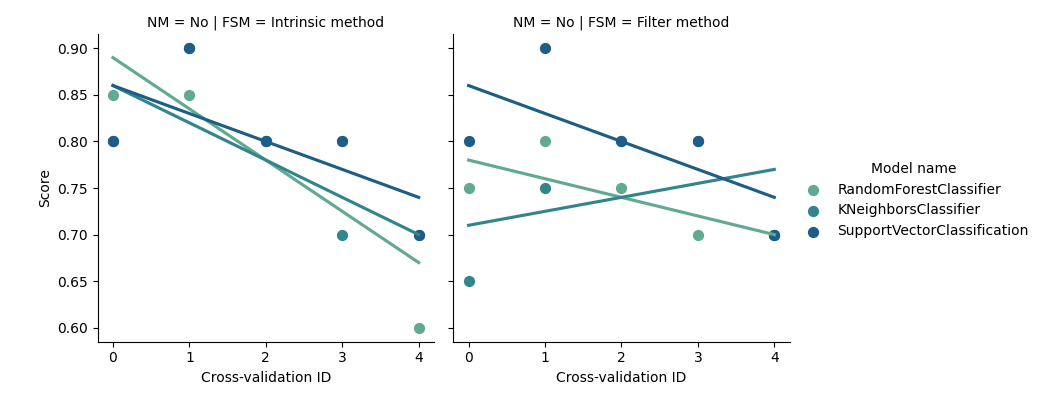
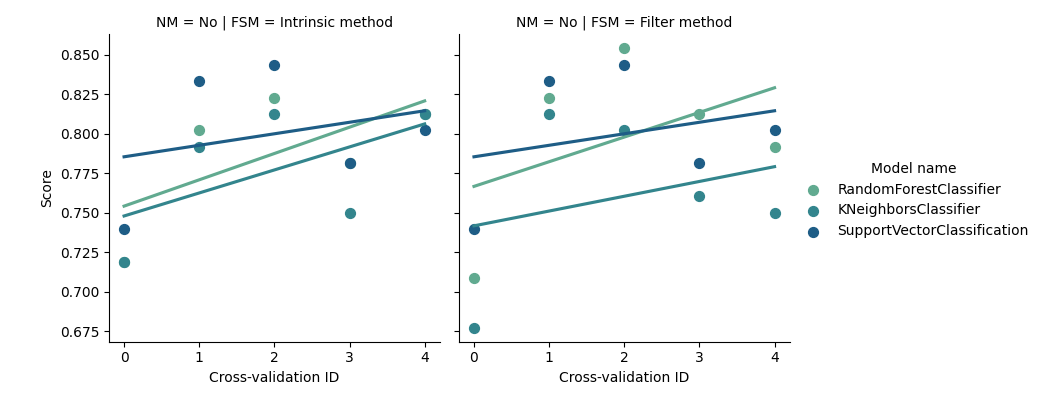
FS optimization

diff --git a/System/Modules/Mbuilding.py b/System/Modules/Mbuilding.py
@@ -27,17 +27,17 @@ def model_shake(DATA, TARGET_COLUMN, TARGET_TY, Fast = True):
                                            'Features used', 'Number of splits', 'Cross-validation ID', 
                                            'Confusion matrix', 'True Positive Rate', 'False Positive Rate', 'Recall', 
                                            'F1 score', 'AUC', 'Score', 'Brier score loss'])
-    NORM_FLAGS = np.array([0,1,2])
+    NORM_FLAGS = np.array([0,1,2]) #we aplly only to train data 
     FEATURE_FLAGS = np.array([0,1,2]) #dont use 2 due to time
     if Fast:
         FEATURE_FLAGS = np.array([0,1])
 
     if TARGET_TY == 'boolean':
         model_stack = ['RandomForestClassifier', 'LogisticRegression', 'KNeighborsClassifier', 'SupportVectorClassification', 'GradientBoostingClassifier', 'GaussianNB']
-        NORM_FLAGS = np.array([0])
+        # NORM_FLAGS = np.array([0])
     if TARGET_TY == 'classes':
         model_stack = ['RandomForestClassifier', 'KNeighborsClassifier', 'SupportVectorClassification']   
-        NORM_FLAGS = np.array([0])
+        # NORM_FLAGS = np.array([0])
     if TARGET_TY == 'continuous':
         # model_stack = ['LinearRegression', 'RandomForestRegressor','QuantileRegressor', 'GradientBoostingRegressor', 'PassiveAggressiveRegressor', 'LassoLars', 'KNeighborsRegressor'] 
         model_stack = ['LinearRegression', 'SupportVectorMachines', 'RandomForestRegressor','QuantileRegressor', 'GradientBoostingRegressor', 'PassiveAggressiveRegressor', 'LassoLars', 'KNeighborsRegressor'] 
@@ -50,9 +50,6 @@ def model_shake(DATA, TARGET_COLUMN, TARGET_TY, Fast = True):
     operation_counter = 0
     number_operations = len(FEATURE_FLAGS)*(number_of_splits)*len(model_stack)*len(NORM_FLAGS)
 
-    
-    DATA = DATA.iloc[0:100] ####test CV
-
 
     X = DATA.loc[:, DATA.columns != TARGET_COLUMN]
     y = DATA[TARGET_COLUMN]
@@ -62,7 +59,7 @@ def model_shake(DATA, TARGET_COLUMN, TARGET_TY, Fast = True):
     ### leave one out add ###
 
 
-    
+    # breakpoint()
 
     ### Bootstraping ###  
     min_number_of_samples = 50
@@ -75,13 +72,10 @@ def model_shake(DATA, TARGET_COLUMN, TARGET_TY, Fast = True):
     X_frag1, X_frag2, y_frag1, y_frag2 = train_test_split(X, y, test_size=0.3, shuffle = True)
     X = np.append(X_frag1, X_frag2, axis=0)
     y = np.append(y_frag1, y_frag2, axis=0)
-    X[:, 0] = np.arange(1, 101) ####test CV 
 
     ### Step 2: Cross Validation ###   
     samples_of_valid = int(len(X)/number_of_splits)
     for shift_idx in range(number_of_splits): 
-        print('CV id '+str(shift_idx))
-        breakpoint()
         X_train, X_valid, y_train, y_valid = train_test_split(X, y, test_size=samples_of_valid, random_state=0, shuffle = False)
         if TARGET_TY == 'classes' or TARGET_TY == 'boolean': #quick solve for HDwithCM, solve in general!!!
             y_train = y_train.astype(int)
@@ -90,13 +84,11 @@ def model_shake(DATA, TARGET_COLUMN, TARGET_TY, Fast = True):
         X = np.roll(X, samples_of_valid, axis=0)
         y = np.roll(y, samples_of_valid, axis=0)
 
-
         ### Step 1: Feature Engeeniring ###
         IMPORTANCES_OUT = []
         CURRENT_FEATURES_OUT = []
         ALL_TRAINED_MODELS = []
         for F_FLAG in FEATURE_FLAGS:
-            print('FEAT id '+str(F_FLAG))
             X_trainR, current_Features, importances, indexes4valid = Fselection.F_selector(pd.DataFrame(X_train, columns = columns_X), 
                                                 pd.DataFrame(y_train, columns = [TARGET_COLUMN]), 
                                                 N_features=FEATURE_N, 
@@ -107,10 +99,10 @@ def model_shake(DATA, TARGET_COLUMN, TARGET_TY, Fast = True):
 
             ### Step 3: Model selection ###
             for model_name in model_stack:
-                print('Model name is '+model_name)
 
                 ### Step 4: NORMALIZATION ###
-                for N_FLAG in NORM_FLAGS: 
+                for N_FLAG in NORM_FLAGS:
+                    # DprepNcleaning.data_normF(X_trainR, FLAG=N_FLAG) #arreglar 
 
                     operation_counter = operation_counter+1
                     if PROGRESS_BAR:
@@ -168,6 +160,7 @@ def model_shake(DATA, TARGET_COLUMN, TARGET_TY, Fast = True):
                                                                  Normalization_methods[N_FLAG], Feature_methods[F_FLAG], current_Features.values.tolist(), 
                                                                  number_of_splits, shift_idx, CoMtx, 
                                                                  tpr, fpr, Recall, F1, auc, model.score(X_validR, y_valid), brier_score] 
+    breakpoint()
     feature_data = pd.DataFrame([]) 
     Feature_methods = ['Intrinsic method','Filter method','Wrapper method']
     for idx in range(len(IMPORTANCES_OUT)):

diff --git a/System/Modules/Fselection.py b/System/Modules/Fselection.py
@@ -13,7 +13,6 @@ def F_selector(X_train, y_train, N_features=5, FLAG=0):
     input: X_train, y_train - used for training
     return:
     '''
-
     if FLAG == 2: 
         if X.shape[1]>N_features: Mf = N_features
         else: Mf = X.shape[1]
@@ -36,7 +35,7 @@ def F_selector(X_train, y_train, N_features=5, FLAG=0):
     else:
         if FLAG == 0:
             model = RandomForestRegressor()
-            model.fit(X_train, y_train)
+            model.fit(X_train.to_numpy(), y_train.to_numpy().ravel())
             importances = model.feature_importances_ #puedo cambiar el impurity de Gini a otro, probar
         if FLAG == 1:
             # breakpoint()

diff --git a/System/Modules/DprepNcleaning.py b/System/Modules/DprepNcleaning.py
@@ -33,13 +33,16 @@ def data_cleaning(data, min_porcentage_col = 10, min_porcentage_row = 0):
 
 def data_normF(data, FLAG=1):
     
+
+    
+    breakpoint()
     data_norm = data
     ### BYPASS NORMALIZATION ###
     if FLAG == 0:
         data_norm = data
     else:
         ### min-max normalization ###
-        if FLAG:  
+        if FLAG == 1:  
             scaler = MinMaxScaler()
             scaler.fit(data)
             X_norm_arr = scaler.transform(data)
